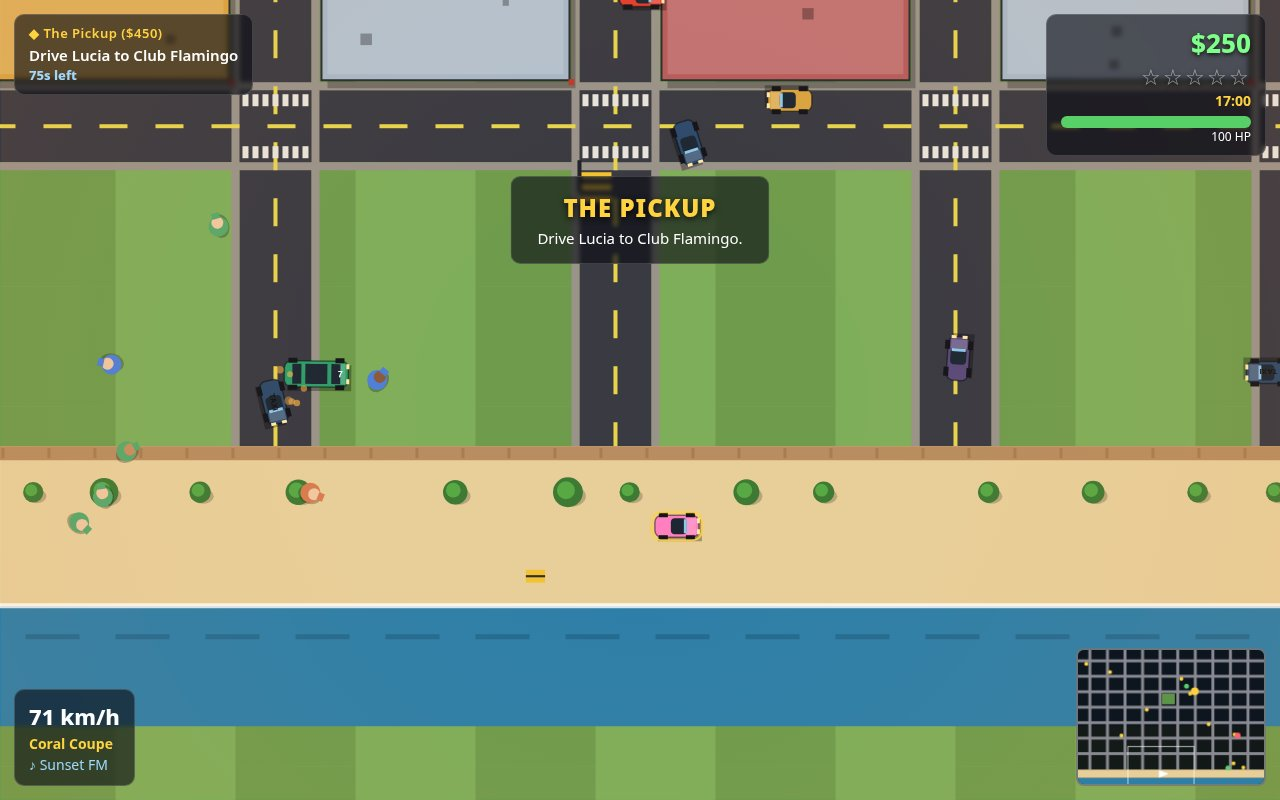
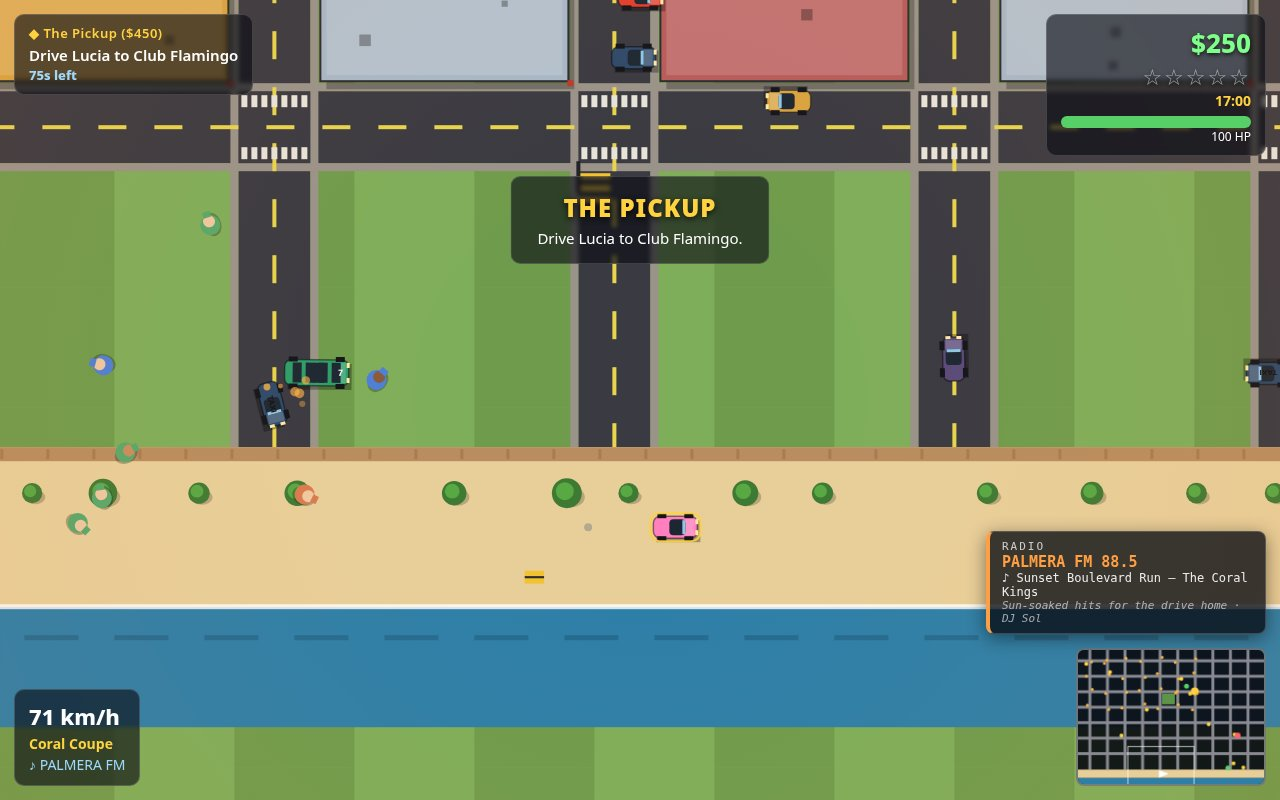
v4: shell, docs and re-taken screenshots
- index.html / serve.ts / main.ts rewritten (13 missions, v4 systems)
- README: v4 section (radio, side jobs, cutscenes), updated controls
- shots.json / .gitignore rewritten; 4 screenshots re-taken with the
  v4 build (map byte-identical, framing matches v3); radio banner
  moved above the minimap so it never covers it

diff --git a/serve.ts b/serve.ts
@@ -9,7 +9,8 @@
 // development convenience, not a web server for the internet.
 // With --log it prints one line per request (method, path, status),
 // so a broken asset shows up in the terminal instead of silently
-// failing in the browser.
+// failing in the browser. v4 rewrote this file wholesale — same
+// routes, same guards, new structure.
 import { createReadStream, statSync } from 'node:fs';
 import { createServer } from 'node:http';
 import { extname, join, normalize, resolve, sep } from 'node:path';
@@ -48,8 +49,6 @@ function parsePort(argv) {
   return Number.isInteger(value) && value > 0 && value < 65536 ? value : 8080;
 }
 
-const port = parsePort(process.argv.slice(2));
-
 // --host binds the server somewhere else (default loopback only);
 // pass 0.0.0.0 to play from another device on your own network.
 function parseHost(argv) {
@@ -58,10 +57,15 @@ function parseHost(argv) {
   return argv[flag + 1];
 }
 
-const host = parseHost(process.argv.slice(2));
-
 // --log prints one line per request to stdout.
-const logging = process.argv.includes('--log');
+function parseLogging(argv) {
+  return argv.includes('--log');
+}
+
+const port = parsePort(process.argv.slice(2));
+const host = parseHost(process.argv.slice(2));
+const logging = parseLogging(process.argv.slice(2));
+
 function logRequest(method, pathname, status) {
   if (!logging) return;
   const stamp = new Date().toISOString().slice(11, 19);

diff --git a/main.ts b/main.ts
@@ -10,7 +10,7 @@
 // The game itself is an original top-down open-world crime game: a seeded
 // city to explore on foot and by car, traffic and pedestrians, cars to
 // steal, a wanted level with police who chase (plus a helicopter and
-// roadblocks at high heat), ten story missions, courier runs, combat,
+// roadblocks at high heat), thirteen story missions, courier runs, combat,
 // a HUD with a minimap and an objective tracker, synthesised sound and
 // radio, and a save.
 //

diff --git a/game/index.html b/game/index.html
@@ -63,7 +63,7 @@
     <div id="bottom-left" class="panel">
       <div id="speed">On foot</div>
       <div id="weapon">Fists</div>
-      <div id="radio">♪ Sunset FM</div>
+      <div id="radio">♪ PALMERA FM</div>
     </div>
     <canvas id="minimap" width="190" height="138"></canvas>
     <div id="toast" class="panel"><div id="toast-title"></div><div id="toast-body"></div></div>

diff --git a/README.md b/README.md
@@ -13,6 +13,18 @@ a bank job, a night-shift courier rush, a turf war, one last dockside heist, and
 a street race at the stadium, payback at the docks, and a clean slate at the airfield — plus taxi
 fares, courier runs, street races, daily challenges and hidden cash stashes in free roam.
 
+## What's new in v4
+
+- **Radio** — three stations with real songs: PALMERA FM 88.5, BAY ROCK 101.1 and CORAL NIGHT 94.7,
+  each with its own tracks, DJ chatter and a banner you can click. Press **R** to switch stations;
+  the tempo quickens as the wanted level climbs. **M** in the pause menu mutes it.
+- **Side jobs** — taxi fares with chatty passengers and tips, vigilante takedowns, pizza delivery
+  runs, and 30 hidden packages stashed across the map with a tracker (press **E** near a fare or
+  a target to start one).
+- **Cutscenes** — a scripted intro when a new game starts, and a briefing scene before most
+  missions: dialogue, camera pans and code-drawn portraits of Marco, Lucia, Rico, Dana, Vex
+  and Kane. Space, Enter or click advances the dialogue.
+
 ## What's new in v3
 
 - **Day/night cycle** — the clock runs from a 17:00 sunset into a dark night (20:00–05:00) with
@@ -63,7 +75,7 @@ No build step, no network requests: `game/index.html` plus its modules under `ga
   tracker (title, step, timer), a helicopter-watching alert, speed, weapon, radio station,
   in-game clock, and a live minimap with mission and police blips.
 - **Sound and music** — everything synthesised live with WebAudio: engine, sirens, gunshots,
-  and three radio stations (Sunset FM, Radio Palma, Night Drive). Press **R** to change station.
+  and three radio stations (PALMERA FM, BAY ROCK, CORAL NIGHT). Press **R** to change station.
 - **Save** — progress (missions done, money) persists in localStorage; continue from the menu.
 
 ## Controls
@@ -71,12 +83,12 @@ No build step, no network requests: `game/index.html` plus its modules under `ga
 | Key | Action |
 | --- | --- |
 | WASD / arrows | Move / drive |
-| E | Steal & enter car / exit car / buy snack at a vendor |
+| E | Steal & enter car / exit car / buy snack at a vendor / start a side job nearby |
 | Mouse + click | Aim / shoot pistol |
-| Space | Punch (on foot) / handbrake (driving) |
+| Space | Punch (on foot) / handbrake (driving) / advance cutscene dialogue |
 | Shift | Sprint |
 | H | Honk |
-| M | Next mission |
+| M | Next mission (pause menu: mute radio) |
 | T | Start street race (at the stadium pad) |
 | C | Photo mode |
 | Mouse wheel | Cycle weapon (fists / pistol) |
@@ -88,7 +100,8 @@ No build step, no network requests: `game/index.html` plus its modules under `ga
 
 - `game/` — the game itself: `index.html` and `src/` (one job per file: config, rng, city,
   vehicles, people, missions, police, render, hud, input, audio, shots, plus the v3 systems
-  daynight, races, stats, pickups, photomode and challenges).
+  daynight, races, stats, pickups, photomode and challenges, plus the v4 systems radio,
+  sidejobs and cutscenes).
 - `main.ts` — the entry program: copies `game/` and `screenshots/` to `/output` and writes
   `dossier.json` with the vendored make.fun library.
 - `screenshots/` — four real renders of the game running in a browser.
